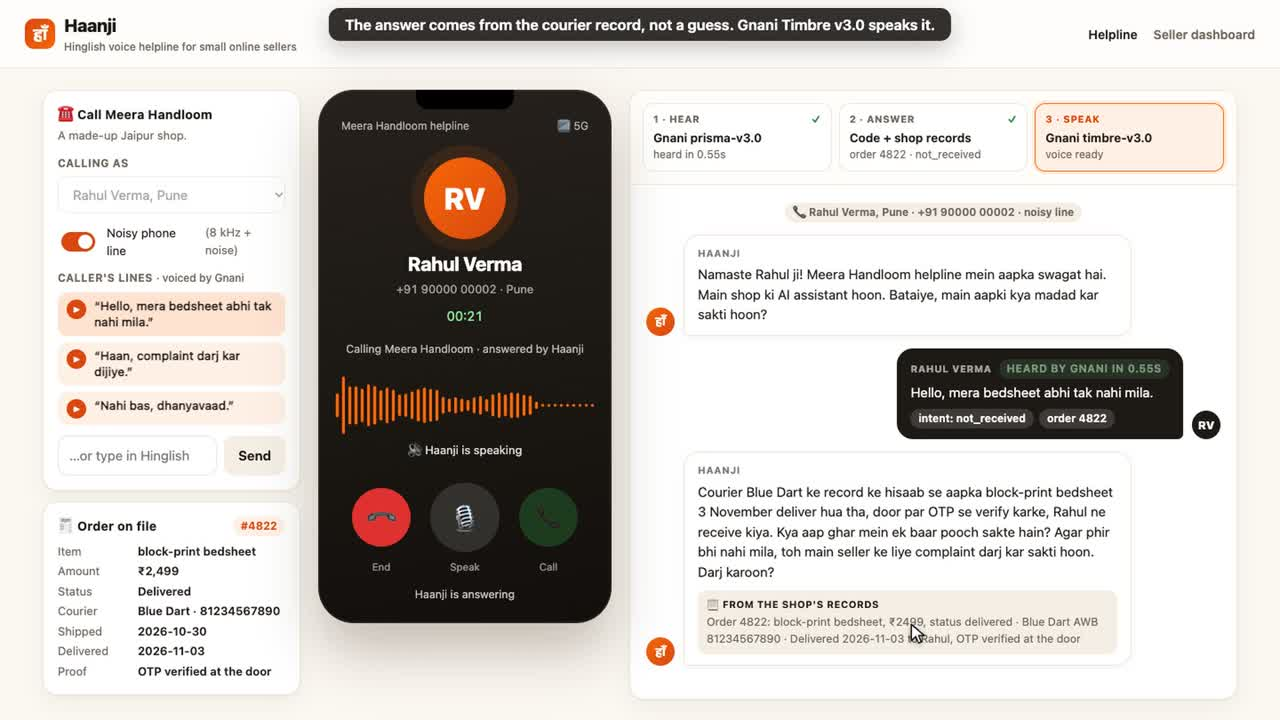
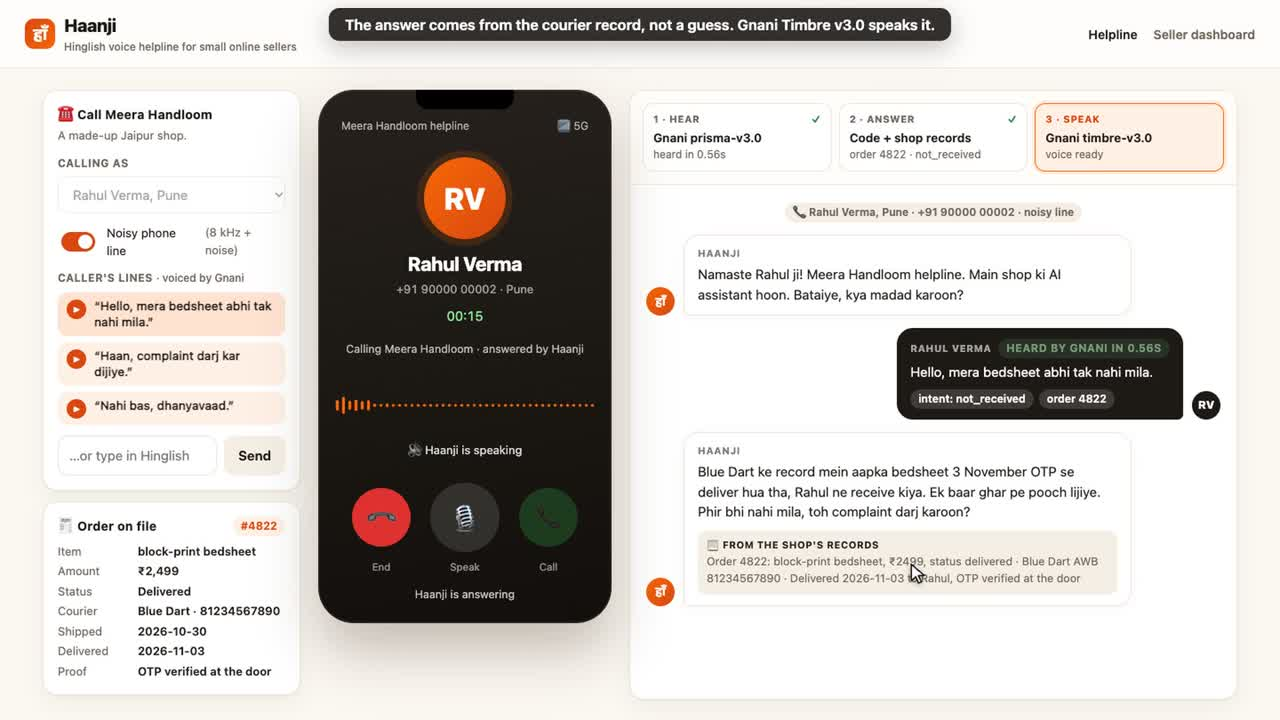
Seller screenshot, X post that fits 280 characters, README and memory updates

diff --git a/haanji/brain.py b/haanji/brain.py
@@ -177,7 +177,7 @@ def respond(text: str, state: dict, shop: Shop, caller: dict | None) -> Reply:
     if order_id is None:
         state.update(pending="order_number", wanted=intent)
         if caller and len(mine) > 1:
-            names = " ya ".join(shop.orders[o]["item"] for o in mine[:3])
+            names = " ya ".join(shop.orders[o].get("short") or shop.orders[o]["item"] for o in mine[:3])
             return Reply(f"Aapke {len(mine)} orders hain: {names}. Kaunse order ke baare mein baat kar rahe hain?", intent)
         return Reply("Zaroor. Kripya apna chaar ank ka order number bataiye. Yeh order confirmation SMS mein likha hai.", intent)
     state["order_id"] = order_id
@@ -192,8 +192,8 @@ def respond(text: str, state: dict, shop: Shop, caller: dict | None) -> Reply:
 
 def _answer(intent: str, o: dict, shop: Shop, state: dict, known_caller: bool) -> Reply:
     today = shop.today
-    oid, item = o["id"], o["item"]
-    facts = [f"Order {oid}: {item}, ₹{o['amount']}, status {o['status']}"]
+    oid, item = o["id"], o.get("short") or o["item"]      # spoken: "bedsheet"; the full name stays in the facts
+    facts = [f"Order {oid}: {o['item']}, ₹{o['amount']}, status {o['status']}"]
     if o.get("courier"):
         facts.append(f"{o['courier']} AWB {o['awb']}")
     delivered = o["status"] == "delivered"

diff --git a/haanji/service.py b/haanji/service.py
@@ -172,13 +172,13 @@ class Service:
             for t in waiting:
                 kinds[t["kind"]] = kinds.get(t["kind"], 0) + 1
             listed = ", ".join(f"{n} {self.KIND_SPOKEN.get(k, k)}" for k, n in kinds.items())
-            parts.append(f"{len(waiting)} {'request' if len(waiting) == 1 else 'requests'} aapki approval ka intezaar kar {'rahi hai' if len(waiting) == 1 else 'rahi hain'}: {listed}.")
+            parts.append(f"Approval ke liye {'request' if len(waiting) == 1 else 'requests'}: {listed}.")
         else:
             parts.append("Koi request aapka intezaar nahi kar rahi.")
         for t in waiting:
             if t["risk"] and t["order_id"]:
                 o = self.shop.orders[t["order_id"]]
-                parts.append(f"Dhyaan dijiye, {o['item']} wale order pe chargeback ka khatra hai. Courier ke paas OTP proof hai, aur call ka transcript save hai.")
+                parts.append(f"Dhyaan dijiye, {o.get('short') or o['item']} wale order pe chargeback ka khatra hai. Courier ke paas OTP proof hai.")
         return " ".join(parts)
 
     def reset(self) -> None:

diff --git a/docs/SUBMISSION.md b/docs/SUBMISSION.md
@@ -4,7 +4,7 @@ Deadline: **10 Nov 2026, 11:59 PM IST.** Order of steps: push the repo → post 
 form with the post links. The post must be live before you submit. Shortlisting is by verified engagement on the
 nominated posts, so post as early as you can.
 
-Demo video: `demo/haanji-demo.mp4` (59 s, 1080p). Upload it to the post directly (native video gets more reach than a link).
+Demo video: `demo/haanji-demo.mp4` (59.5 s, 1080p): real data → a live call over a noisy line → the seller's spoken summary → approval. Upload it to the post directly (native video gets more reach than a link).
 
 ## Project details
 
@@ -79,14 +79,25 @@ Code: https://github.com/aadityabaghel25-netizen/haanji
 >
 > #GnaniAI #GreatIndianAIInternshipChallenge #VoiceAI #Hinglish #BuildInPublic
 
-Tag Gnani AI's company page in the post (type @Gnani and pick the page).
+Tag Gnani AI's company page in the post (type @Gnani and pick the page). On X the handle is @GnaniAi (from gnani.ai).
 
-## X post (paste, attach the video)
+## X post (paste, attach `demo/haanji-demo.mp4`)
 
-> Built Haanji: a Hinglish voice helpline for small online sellers, on @GnaniAI Prisma v3.0 + Timbre v3.0.
-> "Mera parcel kahan hai?" → answered from the shop's records in seconds. No money moves without the seller's click.
-> 82% held-out accuracy on clean audio, 68% on a noisy phone line.
-> github.com/aadityabaghel25-netizen/haanji
-> #GnaniAI #GreatIndianAIInternshipChallenge
+274 of 280 characters (X counts the link as 23).
 
-(Check Gnani's X handle before posting.)
+```
+Small sellers miss calls all day. I built Haanji: a Hinglish voice helpline on @GnaniAi Prisma + Timbre.
+
+Answers from shop records, flags "mila hi nahi" chargeback risk, no refund without the seller's OK.
+
+github.com/aadityabaghel25-netizen/haanji
+
+#GnaniAI #GreatIndianAIInternshipChallenge
+```
+
+Then reply to your own post with the details, so the first post stays short:
+
+```
+How it works: Gnani Prisma v3.0 hears the caller in ~0.5 s (Hinglish, Latin letters) → code answers from order + courier records → Gnani Timbre v3.0 speaks it. The seller gets a spoken Hinglish summary too.
+Measured: 82% of held-out requests understood on clean audio, 68% on a noisy 8 kHz line.
+```

diff --git a/README.md b/README.md
@@ -5,7 +5,7 @@ Entry for the Gnani AI Great Indian AI Internship Challenge, by Aaditya Baghel (
 
 ![Haanji answering a call](docs/screenshot.jpg)
 
-Demo video (59 s): see the LinkedIn post, or `demo/haanji-demo.mp4` locally.
+Demo video (60 s): see the X post, or `demo/haanji-demo.mp4` locally.
 
 A small Instagram or website seller gets the same five calls all day: *"mera parcel kahan hai?"*, *"mila hi nahi"*,
 *"return karna hai"*, *"cancel kar do"*, *"galat size aaya"*. They come in Hinglish, on noisy phone lines, often while
@@ -34,7 +34,10 @@ caller ear  ◄── Gnani Timbre v3.0 (voice Shivani, hi-en)  ◄──  "Cour
 | **No language model writes the answers** | A helpline that guesses a delivery date or promises a refund is worse than none. Every sentence Haanji says is built by code from a record, and the record is shown next to it. |
 | **No money moves on a call** | Returns, cancels, refunds, address changes and complaints become tickets. Only the seller approves them, on the dashboard. |
 | **Caller ID decides what may be said** | A known number hears its own orders by name. An unknown number gets tracking status only, never names, addresses or changes. Asking about someone else's order number gets nothing. |
+| **The seller hears a summary** | The dashboard reads out the day in Hinglish (Gnani Timbre): calls, requests waiting, and any chargeback risk. Code writes the words from the call log. |
 | **"Not received" is caught early** | If the courier shows *delivered, OTP verified*, Haanji says so politely, and if the customer still wants to complain, the ticket is flagged as a **chargeback risk** with the proof and the call transcript attached. |
+
+![The seller's dashboard](docs/seller.jpg)
 
 ## Measured
 

diff --git a/MEMORY.md b/MEMORY.md
@@ -12,7 +12,8 @@
 - UI redesign: 3 columns (call setup + order on file, phone with live waveform and timer, conversation with Hear/Answer/Speak strip).
 - Demo video `demo/haanji-demo.mp4` (59 s, gitignored), real call recorded with Playwright, audio rebuilt from the clips the page played.
 - Public repo: https://github.com/aadityabaghel25-netizen/haanji (pushed 2026-11-09).
-- **Next:** LinkedIn/X post (needed before submitting), submission form. Answers in `docs/SUBMISSION.md`.
+- Round 2 (09 Nov): shorter spoken replies (short item names), seller's spoken Hinglish summary (`/seller/summary`), redesigned seller dashboard, video re-recorded (59.5 s, opens with sourced data from docs/PROBLEM.md). Posting on X; Gnani's handle is @GnaniAi.
+- **Next:** X post (needed before submitting), submission form. Answers in `docs/SUBMISSION.md`.
 
 ## Decisions
 | Date | Decision |
